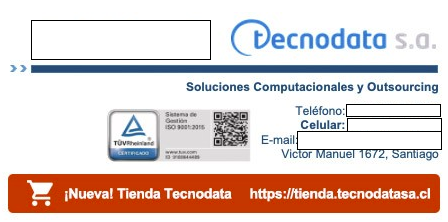
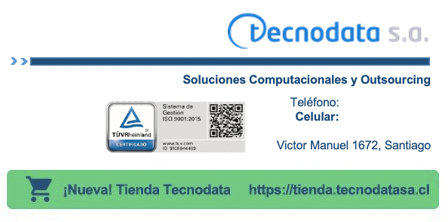
Avances en Firma en imagen y correccion en listado de trabajadores

diff --git a/controllers/trabajador.php b/controllers/trabajador.php
@@ -506,6 +506,13 @@ if( $_POST ){
 if( $parametros ){
 
     if( $parametros[0] == 'lista_firmas' ){
+        $db->where ("empresa_id", $_SESSION[ PREFIX . 'login_eid']);
+        $db->where ("deleted_at", NULL, 'IS');
+        $db->where('tipocontrato_id',array(3,4),'NOT IN');
+        $db->orderBy('apellidoPaterno','ASC');
+        $registros = $db->get("m_trabajador");
+        $trabajadors = $registros;
+
         $cargos = $db->where('empresa_id',$_SESSION[PREFIX.'login_eid'])->orderBy('nombre', 'ASC')->get('m_cargo');
         $departamentos = $db->where('empresa_id',$_SESSION[PREFIX.'login_eid'])->orderBy('nombre', 'ASC')->get('m_departamento');
     }
@@ -516,24 +523,50 @@ if( $parametros ){
         Header("Content-type: image/png");
 
         $im = imagecreatefrompng(ROOT . '/public/img/firma_base.png');
-        $font_color = imagecolorallocate($im, 38, 76, 116);
+        $font_color = imagecolorallocate($im, 53, 79, 119);
         $font_regular = ROOT . '/public/font/Arial.ttf';
         $font_bold = ROOT . '/public/font/ArialBold.ttf';
 
-        $texto = 'Angelo Terrile A.';
+        $nombre = 'Angelo Terrile A.';
+        $cargo = "Web Developer";
+        $email = 'Email: aterrile@gmail.com';
+        $telefono = "+56 2 24456250";
+        $celular = '+569 3 3979873';
 
 
-        // Add the text
-        $size = 12;
-        $angle = 0;
-        $x = 0;
-        $y = 35;
-
-        $dimensions = imagettfbbox($size, $angle, $font_regular, $texto);
+        // Escribir nombre
+        $dimensions = imagettfbbox(11, 0, $font_regular, $nombre);
         $textWidth = abs($dimensions[4] - $dimensions[0]);
         $x = (imagesx($im) - $textWidth - 250);
+        imagettftext($im, 11, 0, $x, 30, $font_color, $font_bold, $nombre);
 
-        imagettftext($im, $size, $angle, $x, $y, $font_color, $font_bold, $texto);
+        // Escribir Cargo
+        $dimensions = imagettfbbox(10, 0, $font_regular, $cargo);
+        $textWidth = abs($dimensions[4] - $dimensions[0]);
+        $x = (imagesx($im) - $textWidth - 240);
+        imagettftext($im, 10, 0, $x, 52, $font_color, $font_regular, $cargo);
+
+        // Escribir Email
+        $dimensions = imagettfbbox(10, 0, $font_regular, $email);
+        $textWidth = abs($dimensions[4] - $dimensions[0]);
+        $x = (imagesx($im) - $textWidth - 12);
+        imagettftext($im, 10, 0, $x, 144, $font_color, $font_regular, $email);
+
+       
+         // Escribir celular
+        $dimensions = imagettfbbox(9, 0, $font_regular, $celular);
+        $textWidth = abs($dimensions[4] - $dimensions[0]);
+        $x = (imagesx($im) - $textWidth - 11);
+        imagettftext($im, 9, 0, $x, 130, $font_color, $font_bold, $celular);
+
+       
+         // Escribir telefono
+        $dimensions = imagettfbbox(9, 0, $font_regular, $telefono);
+        $textWidth = abs($dimensions[4] - $dimensions[0]);
+        $x = (imagesx($im) - $textWidth - 11);
+        imagettftext($im, 9, 0, $x, 115, $font_color, $font_bold, $telefono);
+
+       
 
         // Using imagepng() results in clearer text compared with imagejpeg()
         imagepng($im);

diff --git a/libs/functions.php b/libs/functions.php
@@ -1475,6 +1475,11 @@ function mainMenu(){
                 'entidad' => 'tipotrabajador',
                 'accion' => 'listar',
                 'label' => 'Tipo Trabajador'
+            ),
+            array(
+                'entidad' => 'trabajador',
+                'accion' => 'lista_firmas',
+                'label' => 'Listado para Firmas'
             )
         )
     );
